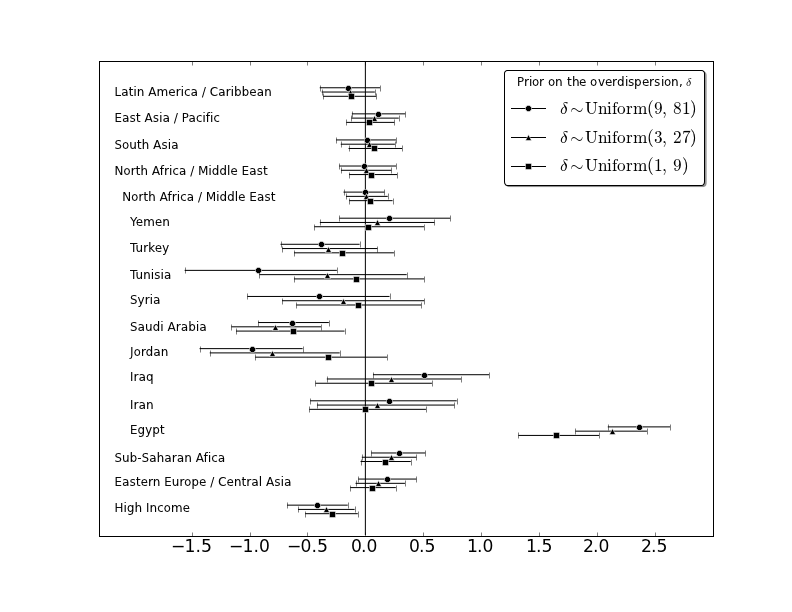
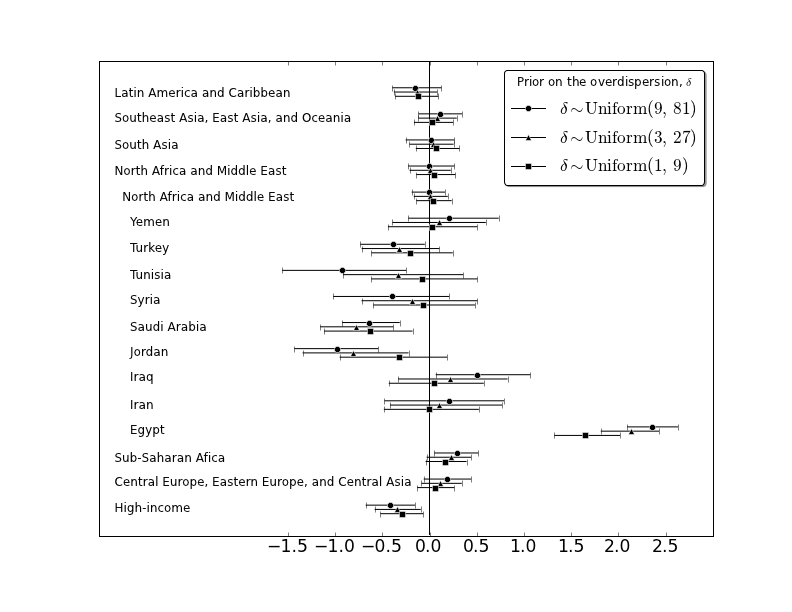
enh: no overlapping lettering

diff --git a/book/graphics_hepc.py b/book/graphics_hepc.py
@@ -153,7 +153,7 @@ covariate = 'U'
 effect = 'alpha'
 
 #pl.figure(figsize=(11, 12))
-l=-2
+l=-2.5
 r=3
 
 # list of all covariate names
@@ -202,7 +202,7 @@ pl.plot([-10],[-10], 'k^-', mec='w', label = '$\delta \sim \\mathrm{Uniform}(3,$
 pl.plot([-10],[-10], 'ks-', mec='w', label = '$\delta \sim \mathrm{Uniform}(1,$ $9)$')
 l,r,b,t = pl.axis()
 r = 3.0
-l = -2.3
+l = -3.5
 pl.vlines([0], b-.5, t+.5)
 pl.xticks([l, 0, r])
 pl.yticks([])
